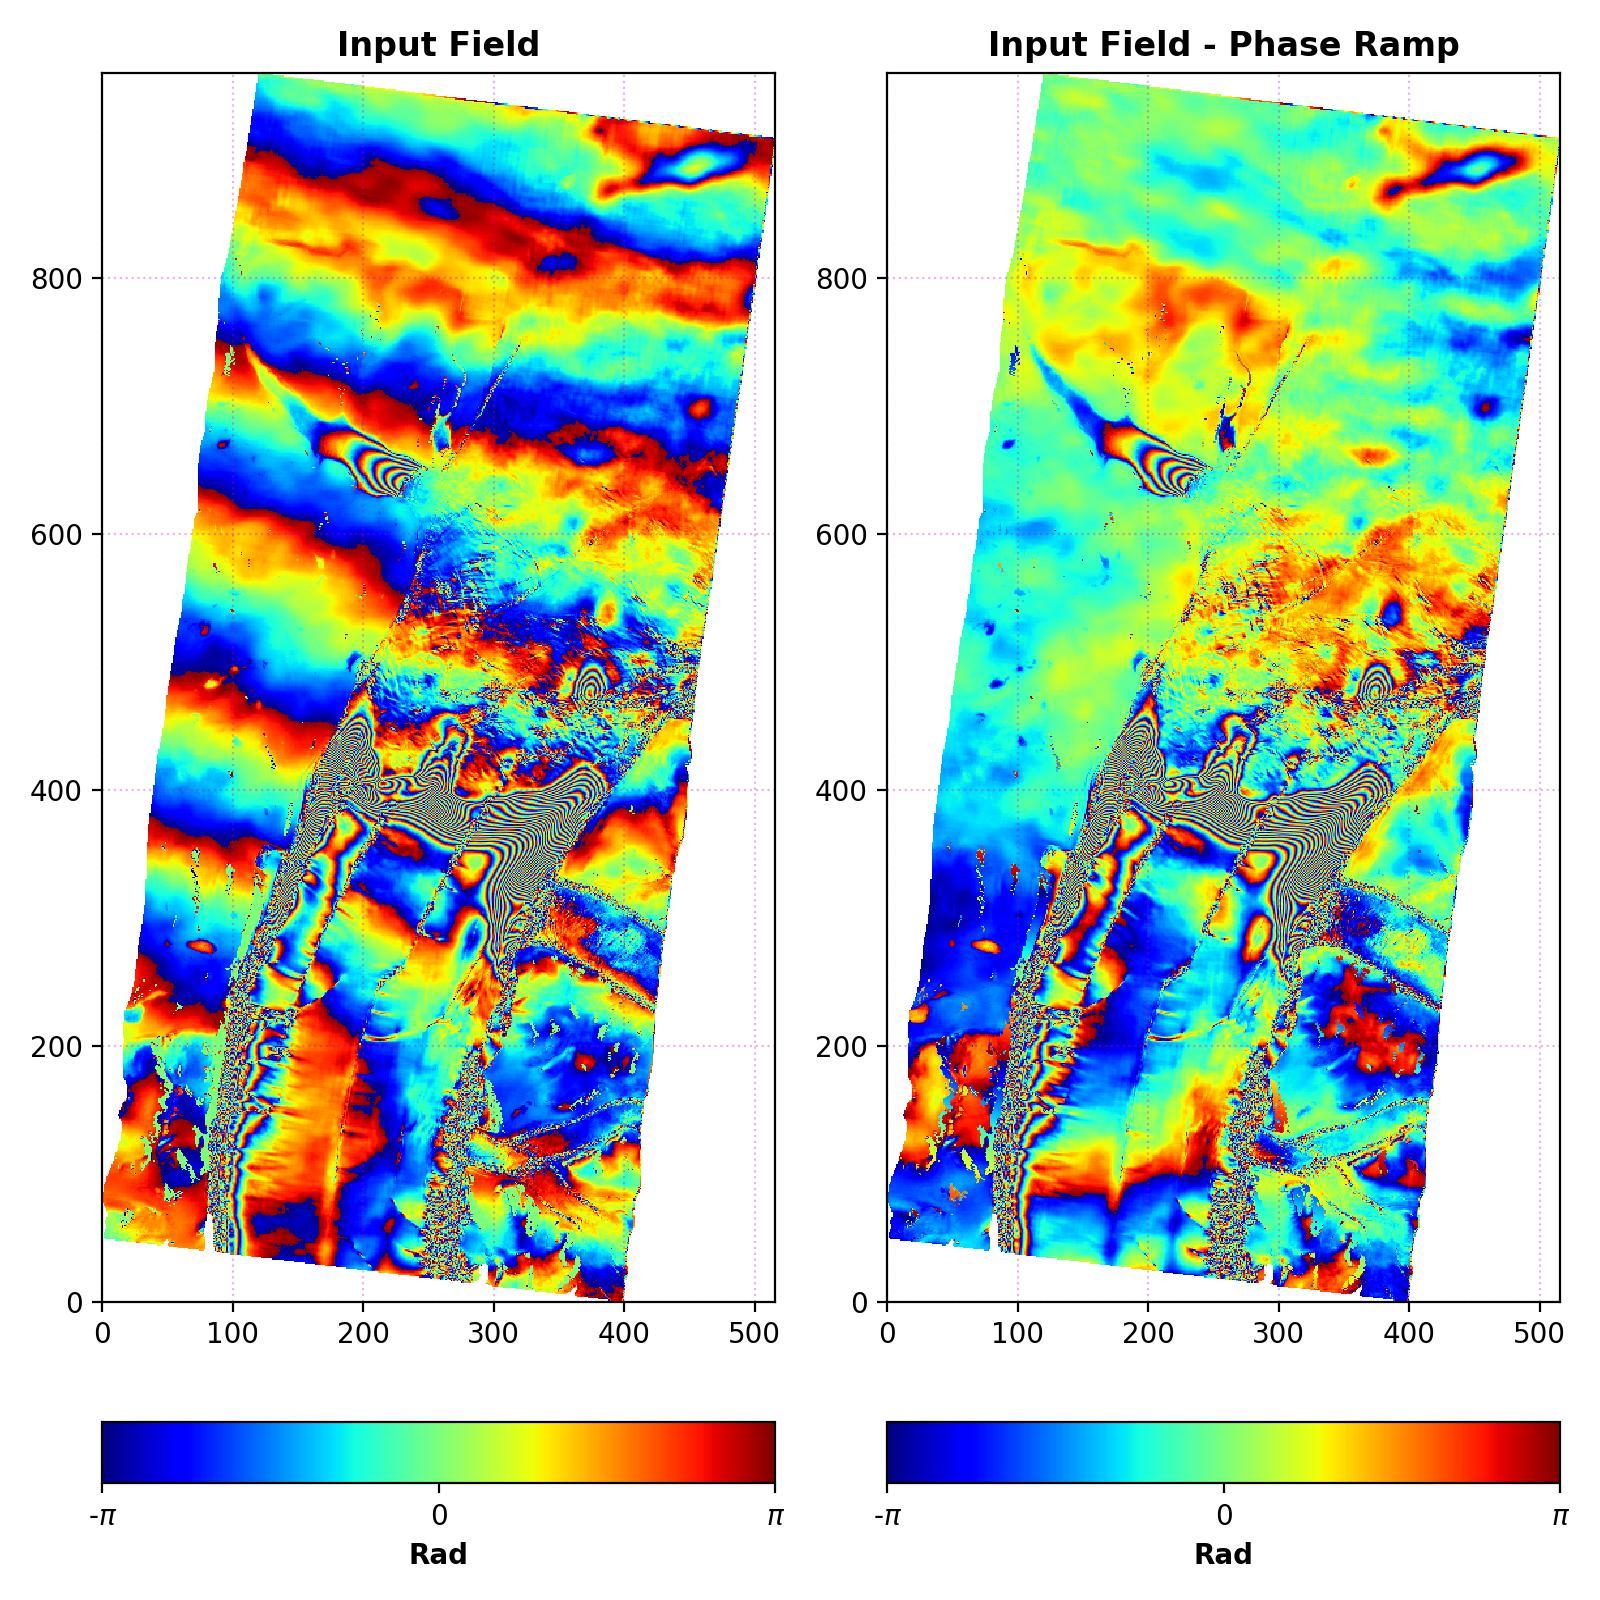
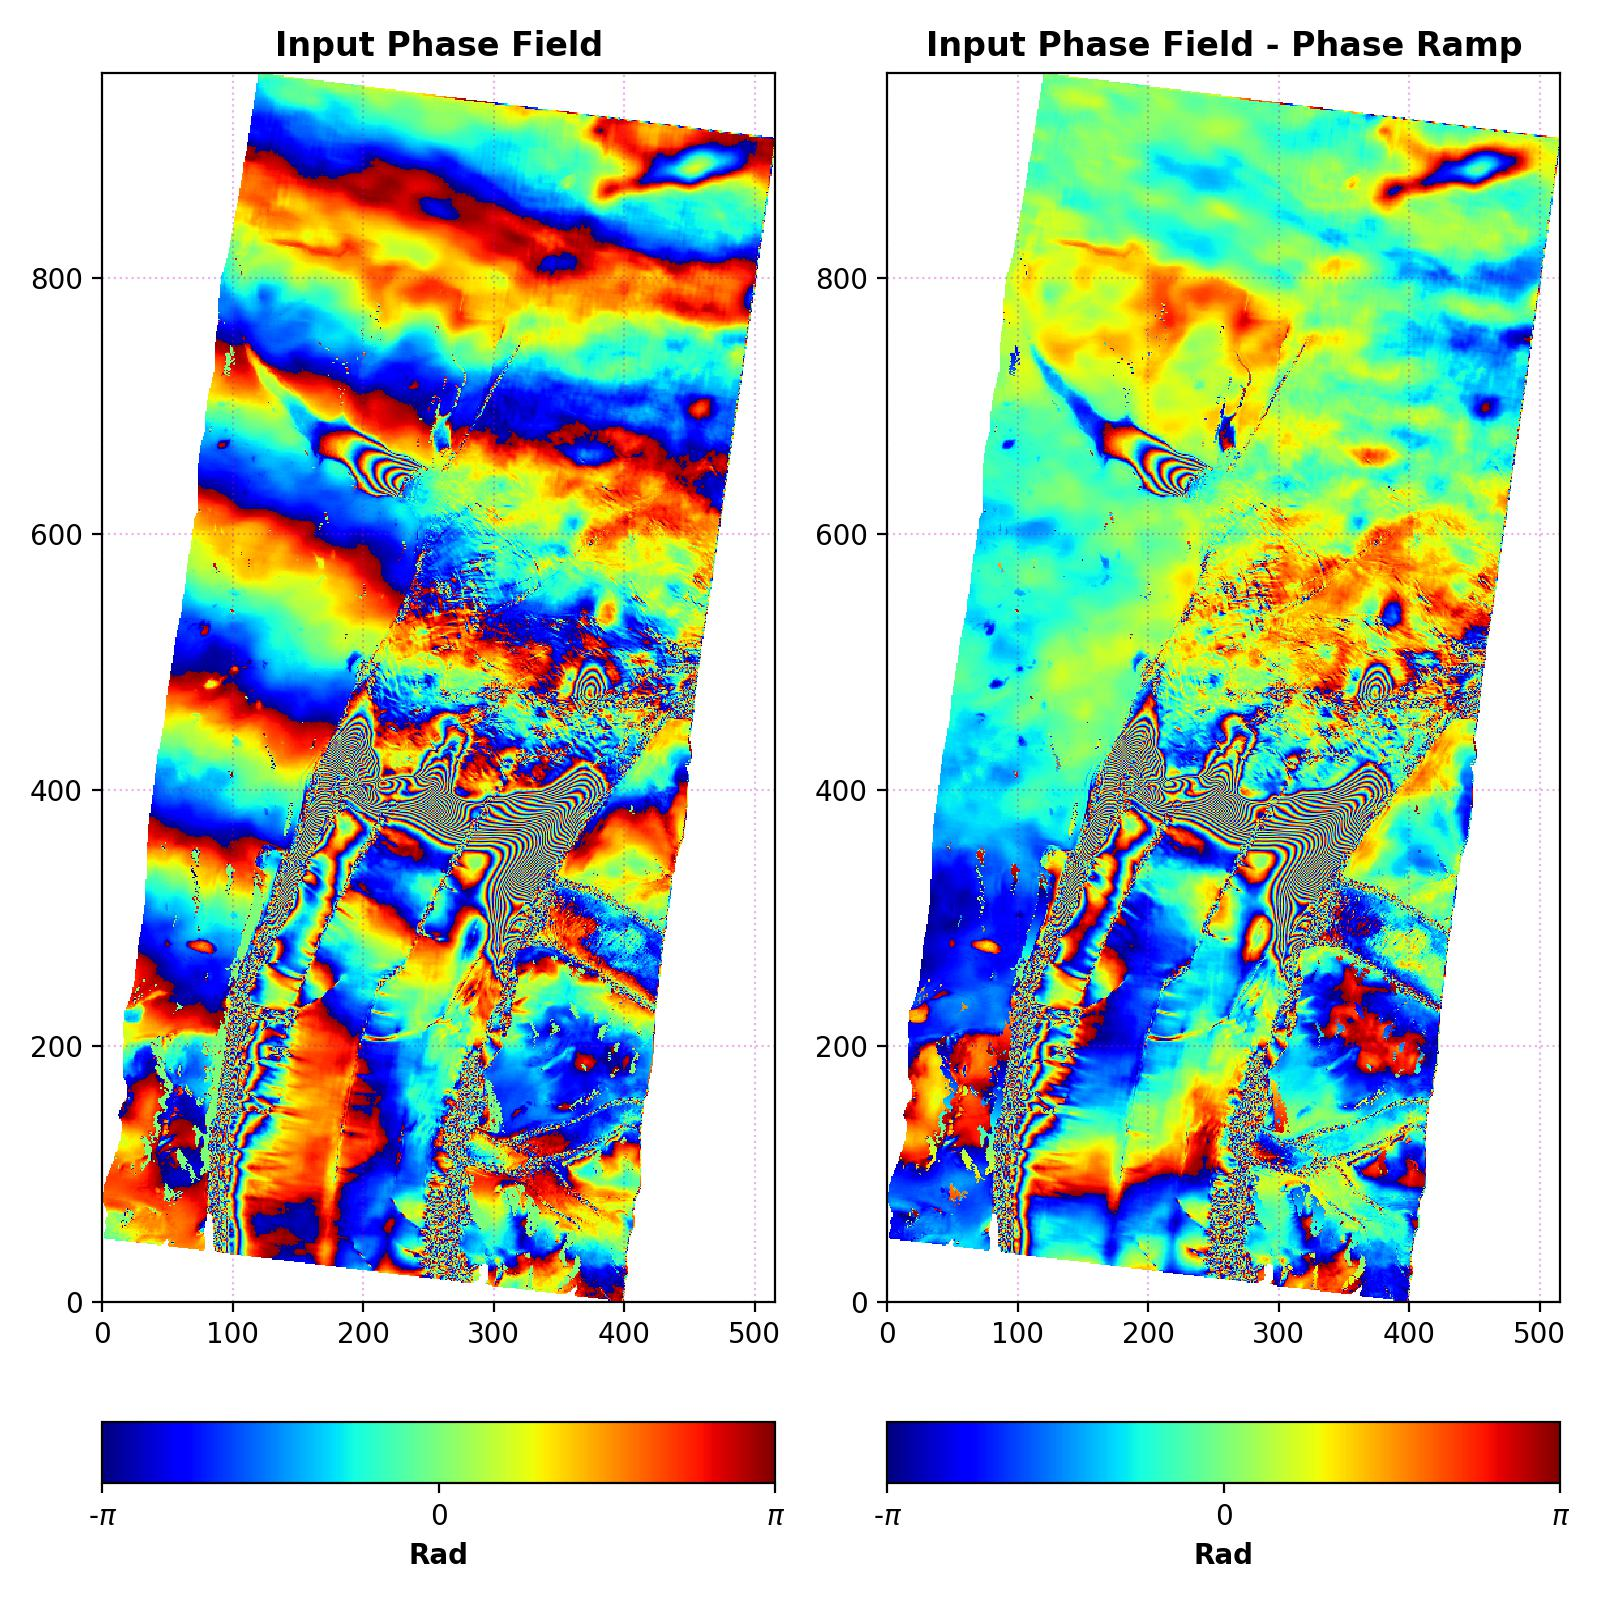
README.rst - Updated

Changed region(s): [[0.5938, 0.0, 0.9375, 0.0625], [0.1875, 0.0, 0.375, 0.0312]]

diff --git a/remove_phase_ramp.py b/remove_phase_ramp.py
@@ -8,7 +8,7 @@ the differential interferogram provided as input.
 
 A first guess of the spatial frequencies characterizing the phase ramp must be
 provided by the user - see freq_r & freq_c input parameters.
-A GRID-SEARCH around the first guess frequencies is performed to obtain
+A GRID SEARCH around the first guess frequencies is performed to obtain
 the best estimate of the ramp parameters.
 
 COMMAND LINE OPTIONS:
@@ -66,13 +66,13 @@ def estimate_phase_ramp(dd_phase_complex, freq_r: int, freq_c: int,
                         s_step: float = 0.1):
     """
     Estimate a phase ramp from the provided input interferogram
-    :param dd_phase_complex: interferogram pahse expressed as complex array
+    :param dd_phase_complex: interferogram phase expressed as complex array
     :param freq_r: phase ramp frequency along rows
     :param freq_c: phase ramp frequency along columns
     :param slope: phase ramp slope (1: increasing phase, -1: decreasing phase)
-    :param s_radius: grid-search domain radius
-    :param s_step: grid-search step
-    :return: Python dictionary containing the results of the grid-search
+    :param s_radius: grid search domain radius
+    :param s_step: grid search step
+    :return: Python dictionary containing the results of the grid search
     """
     # - Generate synthetic field domain
     array_dim = dd_phase_complex.shape
@@ -140,8 +140,8 @@ def remove_phase_ramp(path_to_intf: str, freq_r: int, freq_c: int,
     :param freq_r: phase ramp number of cycles along rows
     :param freq_c: phase ramp number of cycles columns
     :param slope: phase ramp slope (1: increasing phase, -1: decreasing phase)
-    :param s_radius: grid-search domain radius
-    :param s_step: grid-search step
+    :param s_radius: grid search domain radius
+    :param s_step: grid search step
     :return: Python dictionary containing estimated phase rampy and de-ramped
              interferogram.
     """
@@ -173,7 +173,7 @@ def remove_phase_ramp(path_to_intf: str, freq_r: int, freq_c: int,
     n_rows = array_dim[0]
     n_columns = array_dim[1]
 
-    print('# - Running Grid-Search around first guess.')
+    print('# - Running Grid Search around first guess.')
     e_ramp = estimate_phase_ramp(dd_phase_complex, freq_r, freq_c, slope=slope,
                                  s_radius=s_radius, s_step=s_step)
     xx_m = e_ramp['xx_m']
@@ -193,7 +193,7 @@ def remove_phase_ramp(path_to_intf: str, freq_r: int, freq_c: int,
     print(f'# - Num. Cycles -> Rows : {n_cycle_r_min}')
     print(f'# - Num. Cycles -> Columns : {n_cycle_c_min}')
 
-    # - Show Grid-Search Error Array
+    # - Show Grid Search Error Array
     fig_0 = plt.figure(figsize=fig_size1)
     ax_0 = fig_0.add_subplot(111)
     ax_0.set_title(r'Mean Absolute Error - '
@@ -270,7 +270,7 @@ def remove_phase_ramp(path_to_intf: str, freq_r: int, freq_c: int,
 
     fig_3 = plt.figure(figsize=fig_size2)
     ax_3 = fig_3.add_subplot(121)
-    ax_3.set_title('Input Field', weight='bold')
+    ax_3.set_title('Input Phase Field', weight='bold')
     im_3a = ax_3.pcolormesh(clipped_raster * raster_mask,
                             vmin=-np.pi, vmax=np.pi,
                             cmap=plt.cm.get_cmap('jet'))
@@ -281,7 +281,7 @@ def remove_phase_ramp(path_to_intf: str, freq_r: int, freq_c: int,
     ax_3.grid(color='m', linestyle='dotted', alpha=0.3)
 
     ax_3 = fig_3.add_subplot(122)
-    ax_3.set_title('Input Field - Phase Ramp', weight='bold')
+    ax_3.set_title('Input Phase Field - Phase Ramp', weight='bold')
     im_3b = ax_3.pcolormesh(dd_phase_complex_corrected * raster_mask,
                             cmap=plt.cm.get_cmap('jet'))
     cb_3b = add_colorbar(fig_3, ax_3, im_3b)
@@ -344,13 +344,13 @@ def main():
     parser.add_argument('--slope', '-S',
                         type=float, default=1, choices=[-1, 1],
                         help='Phase Ramp Slope along main axis.')
-    # - Grid-Search Domain Radius
+    # - Grid Search Domain Radius
     parser.add_argument('--s_radius', '-U', type=float, default=2,
-                        help='Grid-Search Radius around the provided '
+                        help='Grid Search Radius around the provided '
                              'reference.')
-    # - Grid-Search Step
+    # - Grid Search Step
     parser.add_argument('--s_step', '-T', type=float, default=0.1,
-                        help='Grid-Search Step.')
+                        help='Grid Search Step.')
 
     args = parser.parse_args()
 

diff --git a/README.rst b/README.rst
@@ -10,7 +10,15 @@ Estimate and Remove a Linear Phase Ramp from Differential Interferograms.
 .. |License| image:: https://img.shields.io/badge/license-MIT-green.svg
    :target: https://github.com/eciraci/ee_insar_test/blob/main/LICENSE
 
+This repository contains a small set of routines that can be used to estimate and remove the contribution of a "Linear Ramp" to the Wrapped Phase of the considered Differential InSAR Interferograms.
 
+**Scripts**:
+
+1. **remove_phase_ramp.py** - Find the Phase Ramp optimal parameters employing a Grid Search approach. A first guess of the ramp parameters - e.g. number of cycles along columns and rows - must be provided by the user.
+
+
+\
+\
 
 
 **PYTHON DEPENDENCIES**:
